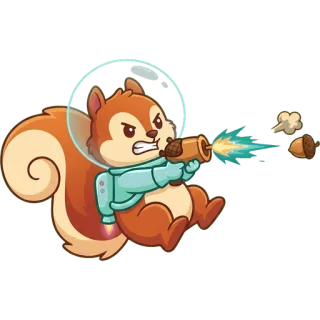
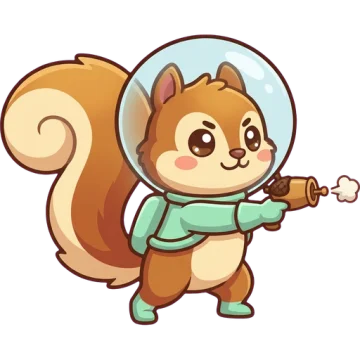
feat(toss): 더 귀여운 토리 전신 포즈 4종 + 스프링 물리 마스코트(자연스러운 반동·숨쉬기·크로스페이드)

diff --git a/toss/src/Mascot.tsx b/toss/src/Mascot.tsx
@@ -1,0 +1,100 @@
+/**
+ * 마스코트: 전신 포즈 이미지(idle/fire/happy/dizzy)를 스프링 물리로 움직인다.
+ * - 포즈가 바뀌면 부드럽게 크로스페이드(깜빡임 없음)
+ * - 숨쉬기: 발 쪽 기준으로 위아래로 살짝 늘었다 줄었다
+ * - 발사(fireSeq): 납작하게 눌렸다가 튕겨 늘어나며 반대 방향으로 기울었다 복귀(오버슈트)
+ * - 이동(vx, vy): 진행 방향으로 기울고, 속도에 따라 길쭉해짐
+ */
+import { useEffect, useRef } from 'react'
+import { spriteUrl, type CharId, type Pose } from './characters'
+
+interface Spring {
+  x: number
+  v: number
+}
+const sp = (): Spring => ({ x: 0, v: 0 })
+function stepSpring(s: Spring, target: number, k: number, d: number, dt: number) {
+  s.v += (-k * (s.x - target) - d * s.v) * dt
+  s.x += s.v * dt
+}
+
+export function Mascot({
+  id,
+  pose,
+  size,
+  facing = 1,
+  fireSeq = 0,
+  vx = 0,
+  vy = 0,
+  breathe = true,
+  className,
+}: {
+  id: CharId
+  pose: Pose
+  size: number | string
+  facing?: 1 | -1
+  fireSeq?: number
+  vx?: number
+  vy?: number
+  breathe?: boolean
+  className?: string
+}) {
+  const box = useRef<HTMLDivElement>(null)
+  const live = useRef({ vx, vy, facing })
+  live.current = { vx, vy, facing }
+  const s = useRef({ squash: sp(), tilt: sp(), hop: sp(), face: { x: facing, v: 0 } as Spring, pop: sp() })
+  const poseRef = useRef(pose)
+
+  useEffect(() => {
+    if (!fireSeq) return
+    const k = s.current
+    k.squash.v -= 14 // 먼저 납작
+    k.tilt.v -= 90 // 반동으로 뒤로 젖힘
+    k.hop.v += 40
+  }, [fireSeq])
+
+  useEffect(() => {
+    if (poseRef.current !== pose && pose === 'happy') s.current.pop.v += 9
+    if (poseRef.current !== pose && pose === 'dizzy') s.current.tilt.v += 160
+    poseRef.current = pose
+  }, [pose])
+
+  useEffect(() => {
+    const el = box.current
+    if (!el) return
+    const reduce = window.matchMedia?.('(prefers-reduced-motion: reduce)').matches
+    let raf = 0
+    let last = performance.now()
+    const frame = (now: number) => {
+      const dt = Math.min(0.033, (now - last) / 1000)
+      last = now
+      const t = now / 1000
+      const k = s.current
+      const { vx: x, vy: y, facing: f } = live.current
+      const speed = Math.min(1, Math.hypot(x, y))
+      const bob = reduce || !breathe ? 0 : Math.sin(t * 2.2) * 0.03
+      const tiltTarget = Math.max(-16, Math.min(16, x * 16)) + (poseRef.current === 'dizzy' ? Math.sin(t * 7) * 8 : 0)
+      stepSpring(k.squash, 0, 320, 17, dt)
+      stepSpring(k.tilt, tiltTarget, 150, 12, dt)
+      stepSpring(k.hop, 0, 200, 13, dt)
+      stepSpring(k.face, f, 260, 22, dt) // 방향 전환도 팽그르르 도는 대신 스프링으로
+      stepSpring(k.pop, 0, 280, 12, dt)
+      const sq = k.squash.x * 0.045
+      const sy = 1 - sq + bob + speed * 0.05 + k.pop.x * 0.04
+      const sx = 1 + sq - bob * 0.6 - speed * 0.03 + k.pop.x * 0.04
+      el.style.transform = `translateY(${-k.hop.x * 0.15}px) rotate(${k.tilt.x}deg) scale(${sx * k.face.x}, ${sy})`
+      raf = requestAnimationFrame(frame)
+    }
+    raf = requestAnimationFrame(frame)
+    return () => cancelAnimationFrame(raf)
+  }, [breathe])
+
+  const poses: Pose[] = ['idle', 'fire', 'happy', 'dizzy']
+  return (
+    <div ref={box} className={`mascot ${className ?? ''}`} style={{ width: size, height: size }} aria-hidden="true">
+      {poses.map((p) => (
+        <img key={p} className={p === pose ? 'on' : ''} src={spriteUrl(id, p)} alt="" draggable={false} />
+      ))}
+    </div>
+  )
+}

diff --git a/toss/src/RecoilGame.tsx b/toss/src/RecoilGame.tsx
@@ -32,6 +32,7 @@ import {
 import { playSound, type SoundName } from './sound'
 import { haptic, submitScore } from './toss'
 import { getSave, liveStreak, nextStreak, todayKST, updateSave } from './store'
+import { Mascot } from './Mascot'
 import { CHARACTERS, isUnlocked, josa, spriteUrl, type Character, type Pose } from './characters'
 
 export type Mode = 'daily' | 'practice'
@@ -92,6 +93,7 @@ export function RecoilGame({
     poseTimer.current = setTimeout(() => setPose('idle'), ms)
   }, [])
   const [newFriends, setNewFriends] = useState<Character[]>([])
+  const [fireSeq, setFireSeq] = useState(0)
   const [state, setState] = useState<RecoilState | null>(null)
   const [bursts, setBursts] = useState<Burst[]>([])
   const [bankText, setBankText] = useState<{ seq: number; x: number; y: number } | null>(null)
@@ -148,6 +150,7 @@ export function RecoilGame({
     if (evs.has('fire')) {
       haptic('tap')
       flash('fire', 260)
+      setFireSeq((n) => n + 1)
     }
     if (evs.has('star')) {
       flash('happy', 500)
@@ -410,17 +413,20 @@ export function RecoilGame({
             </g>
             </g>
           </svg>
-          <img
-            className={`hero pose-${pose}`}
-            src={spriteUrl(character.id, pose)}
-            alt=""
-            draggable={false}
-            style={{
-              left: `${((ARENA_H - shipY) / ARENA_H) * 100}%`,
-              top: `${(shipX / ARENA_W) * 100}%`,
-              transform: `translate(-50%, -50%) scaleX(${ady <= 0 ? 1 : -1})`,
-            }}
-          />
+          <div
+            className="hero"
+            style={{ left: `${((ARENA_H - shipY) / ARENA_H) * 100}%`, top: `${(shipX / ARENA_W) * 100}%`, translate: '-50% -56%' }}
+          >
+            <Mascot
+              id={character.id}
+              pose={pose}
+              size="100%"
+              facing={ady <= 0 ? 1 : -1}
+              fireSeq={fireSeq}
+              vx={(-s.vy / 1024) * 1.2}
+              vy={(s.vx / 1024) * 1.2}
+            />
+          </div>
           {bankText && (
             <span
               key={bankText.seq}

diff --git a/toss/src/styles.css b/toss/src/styles.css
@@ -107,7 +107,7 @@ h1, h2, p { margin: 0; }
 
 /* 캐릭터 */
 .arena-inner { position: relative; }
-.hero { position: absolute; width: 21%; pointer-events: none; user-select: none; filter: drop-shadow(0 2px 6px rgba(0,0,0,.5)); transition: none; }
+.hero { position: absolute; width: 26%; aspect-ratio: 1; pointer-events: none; user-select: none; filter: drop-shadow(0 2px 6px rgba(0,0,0,.5)); transition: none; }
 .hero.pose-fire { animation: kick .26s ease-out; }
 .hero.pose-happy { animation: pop .4s ease-out; }
 @keyframes kick { 0% { scale: 1.12 0.9 } 100% { scale: 1 1 } }
@@ -161,3 +161,9 @@ h1, h2, p { margin: 0; }
 .friend .num { font-variant-numeric: tabular-nums; }
 .intro { font-size: 14px; color: var(--muted); text-align: center; line-height: 1.5; }
 @media (prefers-reduced-motion: reduce) { .float, .starfield, .boot { animation: none; } }
+
+/* 마스코트 */
+.mascot { position: relative; display: block; transform-origin: 50% 90%; will-change: transform; }
+.mascot img { position: absolute; inset: 0; width: 100%; height: 100%; object-fit: contain; opacity: 0; transition: opacity .12s linear; pointer-events: none; user-select: none; -webkit-user-drag: none; }
+.mascot img.on { opacity: 1; }
+.float-wrap { display: block; animation: bob 3.2s ease-in-out infinite; filter: drop-shadow(0 12px 22px rgba(0,0,0,.55)); }

diff --git a/toss/src/App.tsx b/toss/src/App.tsx
@@ -4,6 +4,7 @@ import { RecoilGame, type Mode } from './RecoilGame'
 import { canOpenLeaderboard, closeApp, onBack, openLeaderboard } from './toss'
 import { getSave, liveStreak, loadSave, todayKST, updateSave, type Save } from './store'
 import { setMuted } from './sound'
+import { Mascot } from './Mascot'
 import { CHARACTERS, charById, isUnlocked, josa, preloadSprites, spriteUrl, unlockedIds, type Character } from './characters'
 
 type Screen = { name: 'home' } | { name: 'game'; mode: Mode; difficulty: Difficulty }
@@ -102,7 +103,9 @@ export function App() {
 
           <button className="stage" onClick={() => setTapSeq((n) => n + 1)} aria-label={`${me.name} 쓰다듬기`}>
             <span className="orbit" aria-hidden="true" />
-            <img key={tapSeq} className={`float ${tapSeq ? 'boing' : ''}`} src={spriteUrl(me.id, tapSeq % 3 === 2 ? 'happy' : 'idle')} alt={me.name} />
+            <span className="float-wrap">
+              <Mascot id={me.id} pose={tapSeq % 3 === 2 ? 'happy' : 'idle'} size={210} fireSeq={tapSeq} />
+            </span>
           </button>
           <div className="hello">
             <b>{me.name}</b>
